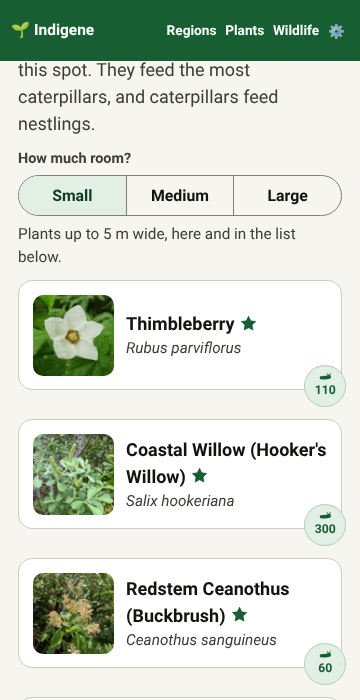
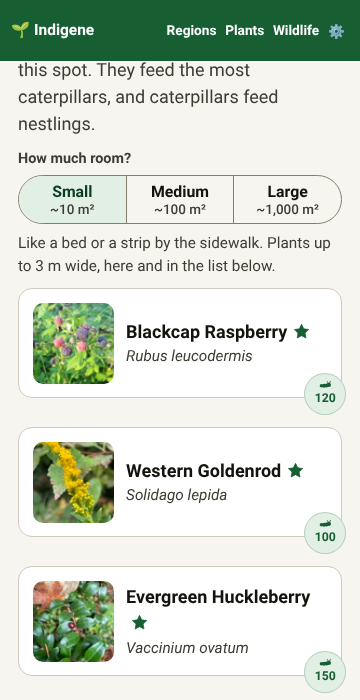
Spot sizes by area: ~100, ~1,000 and ~10,000 ft²
Small, medium and large are now an order of magnitude apart (10, 100,
1,000 m² in metric), shown under each button, with an everyday example
in the caption. The width cap follows from the area: as wide as a square
spot of that size, so 10 ft for a bed and 25 ft for a backyard. One
shared control (components/room-choice.ts) serves both pages.

Claude-Session: https://claude.ai/code/session_01Sq9k89rKrxr6cygtL5kJ2N

diff --git a/app/src/steps/results.ts b/app/src/steps/results.ts
@@ -30,7 +30,8 @@ import { maxHeightChoices, maxSpreadChoices, nearestRung, temperature } from "..
 import { commonName, regionName, regionReference } from "../lib/names";
 import { filterBox, norm } from "../components/filter-field";
 import { filterCount } from "../lib/filter-traits";
-import { firstPicks, roomCap, roomOf, ROOMS } from "../lib/first-picks";
+import { firstPicks, roomCap, roomOf } from "../lib/first-picks";
+import { roomChoice } from "../components/room-choice";
 import type { Room } from "../lib/first-picks";
 import { plantRow } from "./region";
 import type { Plant, PlantForm } from "../types";
@@ -190,8 +191,10 @@ export async function renderResults(main: HTMLElement): Promise<(() => void) | v
     if (!picks.length && cap == null) { clear(firstEl); return; }
     const sizeLabel = (ft: number): string => ladder.find((c) => c.ft === nearestRung(ladder, ft))!.label;
     const caption = cap == null
-      ? t("first.roomAny")
-      : t(room ? "first.roomCap" : "first.roomOther", { size: sizeLabel(cap) });
+      ? `${t("room.like.large")} ${t("first.roomAny")}`
+      : room
+      ? `${t(`room.like.${room}` as const)} ${t("first.roomCap", { size: sizeLabel(cap) })}`
+      : t("first.roomOther", { size: sizeLabel(cap) });
     const setRoom = (r: Room): void => {
       store.filters.maxSpreadFt = roomCap(r, ladder);
       store.draft.room = r;
@@ -202,16 +205,7 @@ export async function renderResults(main: HTMLElement): Promise<(() => void) | v
     firstEl.replaceChildren(
       el("h3", { id: "first-picks-title" }, t("first.title")),
       el("p", { class: "first-picks-lede" }, t("first.lede")),
-      el("div", { class: "first-picks-room" }, [
-        el("span", { class: "roster-control-label" }, t("first.roomLabel")),
-        el("div", { class: "segmented", role: "group", "aria-label": t("first.roomLabel") },
-          ROOMS.map((r) => el("button", {
-            class: "segment",
-            type: "button",
-            "aria-pressed": r === room ? "true" : "false",
-            onClick: () => setRoom(r),
-          }, t(`first.room.${r}` as const)))),
-      ]),
+      roomChoice(t("first.roomLabel"), room, setRoom),
       el("p", { class: "first-picks-caption" }, caption),
       ...(picks.length
         ? [el("div", { class: "card-grid" }, picks.map((r) => plantRow(r.plant, regionId, { caterpillars: true }).node))]

diff --git a/app/src/steps/spot.ts b/app/src/steps/spot.ts
@@ -44,7 +44,8 @@ import { t, fmtDate, fmtNumber, monthName } from "../lib/i18n";
 import { linkedLogin } from "../lib/inat-account";
 import { getInvasive } from "../lib/invasives";
 import { rankPlants, NO_FILTERS } from "../lib/ranking";
-import { missingEssentials, roomCap, ROOMS } from "../lib/first-picks";
+import { missingEssentials, roomCap } from "../lib/first-picks";
+import { roomChoice } from "../components/room-choice";
 import { maxSpreadChoices } from "../lib/units";
 import { plantRow } from "./region";
 
@@ -263,24 +264,16 @@ function essentialsCard(
   const picks = missingEssentials(ranked, planted);
   const size = cap == null ? "" : ladder.find((c) => c.ft === cap)?.label ?? "";
   const roomLine = !spot.room ? t("spot.roomUnset")
-    : cap == null ? t("spot.roomLarge")
-    : t("spot.roomCap", { size });
-  const card: HTMLElement = el("section", { class: "card first-picks-room" }, [
+    : `${t(`room.like.${spot.room}` as const)} ${cap == null ? t("spot.roomLarge") : t("spot.roomCap", { size })}`;
+  const card: HTMLElement = el("section", { class: "card" }, [
     el("h3", { style: "margin:0 0 0.5rem" }, t("spot.essentialsTitle")),
-    el("span", { class: "roster-control-label" }, t("spot.roomLabel")),
-    el("div", { class: "segmented", role: "group", "aria-label": t("spot.roomLabel") },
-      ROOMS.map((r) => el("button", {
-        class: "segment",
-        type: "button",
-        "aria-pressed": r === spot.room ? "true" : "false",
-        // Redrawn in place: a whole-page redraw would jump to the top.
-        // Set on the page's own spot, so "See plants" opens it at this size.
-        onClick: async () => {
-          spot.room = r;
-          await saveSpot(spot);
-          card.replaceWith(essentialsCard(spot, plantings, plantOf, roster, regionId));
-        },
-      }, t(`first.room.${r}` as const)))),
+    // Redrawn in place: a whole-page redraw would jump to the top. Set on the
+    // page's own spot, so "See plants" opens it at this size.
+    roomChoice(t("spot.roomLabel"), spot.room ?? null, async (r) => {
+      spot.room = r;
+      await saveSpot(spot);
+      card.replaceWith(essentialsCard(spot, plantings, plantOf, roster, regionId));
+    }),
     el("p", { class: "first-picks-caption" }, roomLine),
     ...(picks.length
       ? [

diff --git a/app/src/lib/first-picks.ts b/app/src/lib/first-picks.ts
@@ -58,19 +58,27 @@ function pickByGenus(ranked: readonly Ranked[], n: number, have: ReadonlySet<str
   return picks;
 }
 
-/** The three answers to "how much room?", as a cap on mature spread in feet.
- *  `null` is no cap. Read against the size filter's own ladder, so a choice
- *  here is that filter set to a rung, and the two never disagree. */
+/** The three answers to "how big is this spot?", an order of magnitude
+ *  apart: a bed, a backyard, a big lot. Round numbers in both systems, so
+ *  neither reads as a conversion of the other (10 m² is 108 ft², near enough
+ *  for a rough answer). */
 export const ROOMS: readonly Room[] = ["small", "medium", "large"];
+export const ROOM_AREA: Record<Room, { sqft: number; sqm: number }> = {
+  small: { sqft: 100, sqm: 10 },
+  medium: { sqft: 1_000, sqm: 100 },
+  large: { sqft: 10_000, sqm: 1_000 },
+};
 
-/** Target spreads: a small yard fits a shrub or a narrow tree, a medium one a
- *  tree the width of a house front, a large one anything. */
-const ROOM_FT: Record<Room, number | null> = { small: 15, medium: 25, large: null };
-
-/** The rung of `ladder` a room sets the spread cap to. */
+/**
+ * The cap on mature spread a size sets, as a rung of the size filter's own
+ * ladder, so a choice here is that filter set and the two never disagree.
+ * A plant as wide as a square spot of that area is the widest it can take:
+ * about 10 ft for a bed, 30 for a backyard. A big lot takes anything (100 ft
+ * across is wider than any plant on the lists), so it sets no cap.
+ */
 export function roomCap(room: Room, ladder: readonly { ft: number }[]): number | null {
-  const target = ROOM_FT[room];
-  if (target == null) return null;
+  if (room === "large") return null;
+  const target = Math.sqrt(ROOM_AREA[room].sqft);
   return ladder.reduce((best, c) =>
     Math.abs(c.ft - target) < Math.abs(best - target) ? c.ft : best, ladder[0].ft);
 }

diff --git a/app/src/components/room-choice.ts b/app/src/components/room-choice.ts
@@ -1,0 +1,30 @@
+// "How big is this spot?": three buttons an order of magnitude apart, each
+// with its rough area under the word, so a reader can tell a bed from a
+// backyard without a tape measure. Shared by the plant list's "Plant these
+// first" section and a saved spot's page (`lib/first-picks.ts` has the sizes).
+import { el } from "../ui";
+import { t, fmtNumber } from "../lib/i18n";
+import { getUnits } from "../lib/units";
+import { ROOMS, ROOM_AREA, type Room } from "../lib/first-picks";
+
+/** "~100 ft²" or "~10 m²", in the reader's own units. */
+export function roomArea(room: Room): string {
+  const a = ROOM_AREA[room];
+  return getUnits() === "metric" ? `~${fmtNumber(a.sqm)} m²` : `~${fmtNumber(a.sqft)} ft²`;
+}
+
+export function roomChoice(label: string, selected: Room | null, onPick: (r: Room) => void): HTMLElement {
+  return el("div", { class: "first-picks-room" }, [
+    el("span", { class: "roster-control-label" }, label),
+    el("div", { class: "segmented", role: "group", "aria-label": label },
+      ROOMS.map((r) => el("button", {
+        class: "segment",
+        type: "button",
+        "aria-pressed": r === selected ? "true" : "false",
+        onClick: () => onPick(r),
+      }, [
+        el("span", {}, t(`first.room.${r}` as const)),
+        el("span", { class: "segment-sub" }, roomArea(r)),
+      ]))),
+  ]);
+}

diff --git a/app/src/locales/fr.ts b/app/src/locales/fr.ts
@@ -391,7 +391,7 @@ export const fr: Dict = {
   "spot.essentialsTitle": "Plantes essentielles à ajouter",
   "spot.essentialsLede": "Des sortes que ce lieu n'a pas encore. Chacune nourrit bien plus de chenilles que la plupart des plantes.",
   "spot.roomLabel": "Quelle taille fait ce lieu ?",
-  "spot.roomCap": "Environ {size} de large au plus. Les suggestions restent dans cette largeur.",
+  "spot.roomCap": "Les suggestions restent sous {size} de large.",
   "spot.roomLarge": "De la place pour tout, arbres compris.",
   "spot.roomUnset": "Pas encore indiqué : les suggestions incluent toutes les tailles.",
   "spot.essentialsAll": "Chaque plante essentielle adaptée à ce lieu y a déjà une parente. Plantez davantage de celle qui pousse le mieux.",
@@ -1287,6 +1287,9 @@ export const fr: Dict = {
   "first.room.large": "Grande",
   "first.roomCap": "Plantes de {size} de large au plus, ici et dans la liste.",
   "first.roomAny": "Plantes de toutes tailles.",
+  "room.like.small": "Comme une plate-bande ou une bande le long du trottoir.",
+  "room.like.medium": "Comme un jardin ordinaire.",
+  "room.like.large": "Comme un grand terrain.",
   "first.roomOther": "Votre filtre de taille est actif : plantes de {size} de large au plus.",
   "results.regionTag": "📍 {region}",
   "results.regionTagPick": "📍 {region} · votre choix",

diff --git a/app/src/locales/en.ts b/app/src/locales/en.ts
@@ -388,7 +388,7 @@ export const en = {
   "spot.essentialsTitle": "Essential plants to add",
   "spot.essentialsLede": "Kinds this spot doesn't have yet. Each feeds far more caterpillars than most plants.",
   "spot.roomLabel": "How big is this spot?",
-  "spot.roomCap": "Up to about {size} across. Suggestions stay within that width.",
+  "spot.roomCap": "Suggestions stay under {size} wide.",
   "spot.roomLarge": "Room for anything, trees included.",
   "spot.roomUnset": "Not set yet, so suggestions include every size.",
   "spot.essentialsAll": "Every essential plant that suits this spot has a relative here already. Plant more of whichever does best.",
@@ -1314,6 +1314,9 @@ export const en = {
   "first.room.large": "Large",
   "first.roomCap": "Plants up to {size} wide, here and in the list below.",
   "first.roomAny": "Plants of any size.",
+  "room.like.small": "Like a bed or a strip by the sidewalk.",
+  "room.like.medium": "Like a typical backyard.",
+  "room.like.large": "Like a big lot.",
   "first.roomOther": "Your size filter is on: plants up to {size} wide.",
   "results.regionTag": "📍 {region}",
   "results.regionTagPick": "📍 {region} · your pick",

diff --git a/app/src/types.ts b/app/src/types.ts
@@ -1057,10 +1057,11 @@ export interface SavedSpot {
   deciduousOverhead?: boolean;
   /** Region id the user picked by hand for this spot (e.g. just over a boundary). */
   regionOverride?: string | null;
-  /** Roughly how big the spot is, as the gardener said: small (a bed up to
-   *  about 15 ft / 5 m across), medium (about 25 ft / 8 m), or large. Caps
-   *  how wide a plant the spot is offered (`lib/first-picks.ts`). Unset on
-   *  spots saved before it was asked, which are offered every size. */
+  /** Roughly how big the spot is, as the gardener said, an order of
+   *  magnitude apart: small (~100 ft² / 10 m², a bed), medium (~1,000 ft²,
+   *  a backyard) or large (~10,000 ft², a big lot). Caps how wide a plant the
+   *  spot is offered (`lib/first-picks.ts`). Unset on spots saved before it
+   *  was asked, which are offered every size. */
   room?: Room | null;
   weights: Weights;
   /** Invasives the gardener has found here and means to deal with — added from

diff --git a/app/src/lib/first-picks.test.ts b/app/src/lib/first-picks.test.ts
@@ -75,15 +75,16 @@ describe("rooms", () => {
   const metres = [1, 2, 3, 5, 8, 12, 20].map((m) => ({ ft: m * 3.28084 }));
 
   it("sets the spread cap to a rung of the filter's own ladder", () => {
-    expect(roomCap("small", feet)).toBe(15);
+    // A 100 ft² bed is 10 ft across; a 1,000 ft² yard about 32, nearest 25.
+    expect(roomCap("small", feet)).toBe(10);
     expect(roomCap("medium", feet)).toBe(25);
     expect(roomCap("large", feet)).toBeNull();
-    expect(roomCap("small", metres)).toBeCloseTo(5 * 3.28084);
+    expect(roomCap("small", metres)).toBeCloseTo(3 * 3.28084);
     expect(roomCap("medium", metres)).toBeCloseTo(8 * 3.28084);
   });
 
   it("reads a cap back as its room, and a hand-set cap as none", () => {
-    expect(roomOf(15, feet)).toBe("small");
+    expect(roomOf(10, feet)).toBe("small");
     expect(roomOf(null, feet)).toBe("large");
     expect(roomOf(6, feet)).toBeNull();
   });

diff --git a/app/src/styles.css b/app/src/styles.css
@@ -1842,7 +1842,17 @@ button.segment[aria-pressed="true"] {
 .first-picks-room .segmented { display: flex; }
 .first-picks-room .segment {
   flex: 1 1 0;
+  flex-direction: column;
   justify-content: center;
+  gap: 0;
+  line-height: 1.2;
+  padding: 0.35rem 0.3rem;
+}
+/* The rough area under each size word: "~100 ft²". */
+.segment-sub {
+  font-size: 0.75rem;
+  font-weight: 500;
+  color: var(--ink-soft);
 }
 .first-picks-caption {
   margin: 0.4rem 0 0.6rem;

diff --git a/changelog.d/claude-plant-these-first.md b/changelog.d/claude-plant-these-first.md
@@ -2,5 +2,5 @@
 
 - Matches: a new **Plant these first** list tops your plants. It shows four essential plants, each a different kind, because a second willow mostly feeds the same caterpillars as the first. Tell it how much room you have: small, medium or large.
 - Spots: a saved spot now suggests **essential plants to add**, kinds it has nothing related to yet. A garden with a willow gets offered a cherry or an oak, not a second willow.
-- Spots: tell a saved spot roughly how big it is (small, medium or large) and its suggestions stay a size that fits. A small bed gets goldenrod and blueberry; a big yard can still get an oak.
+- Spots: tell a saved spot roughly how big it is: small (a bed, ~100 ft²), medium (a backyard, ~1,000 ft²) or large (a big lot). Its suggestions stay a size that fits, so a bed gets goldenrod, not an oak.
 - Internal: `lib/first-picks.ts` takes one plant per genus from the reader's own ranking, keystones first, poor fits never. The room buttons set the existing spread filter to a ladder rung, so the card and the list stay in step. `missingEssentials` does the same for a spot, skipping genera already planted. `SavedSpot.room` stores the size; backups carry it, and opening the spot sets the list's spread cap to match.
